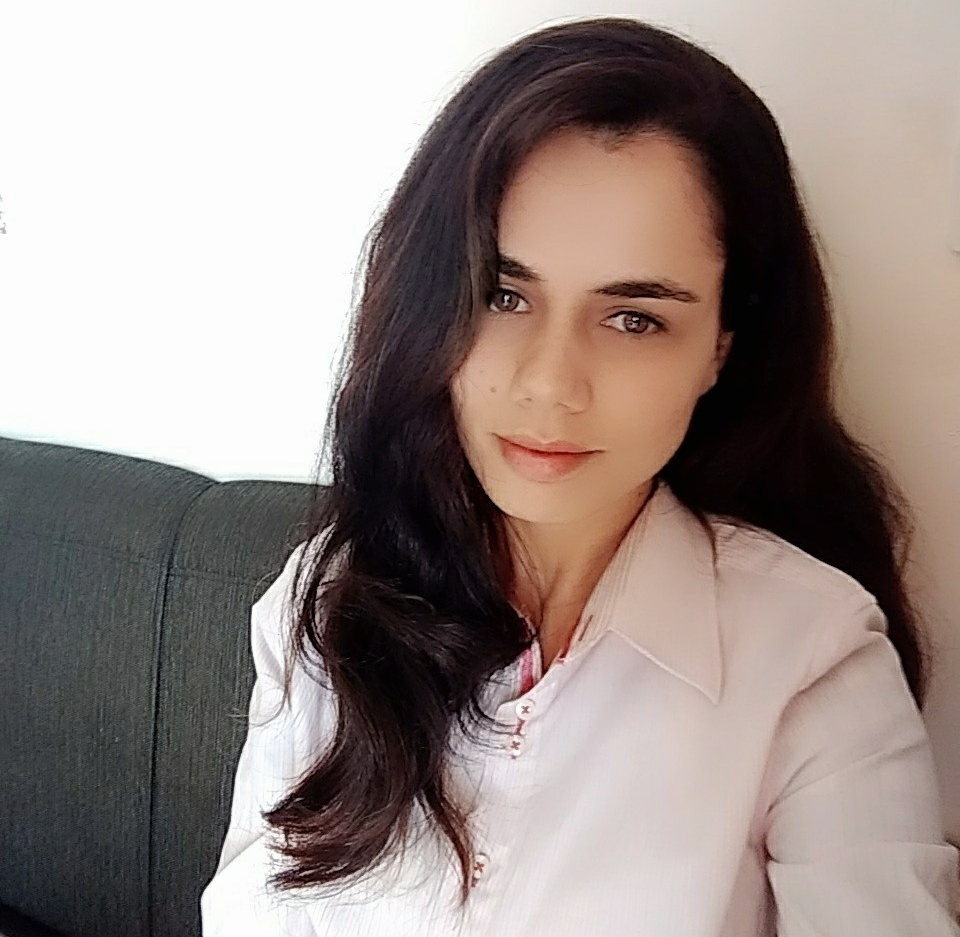
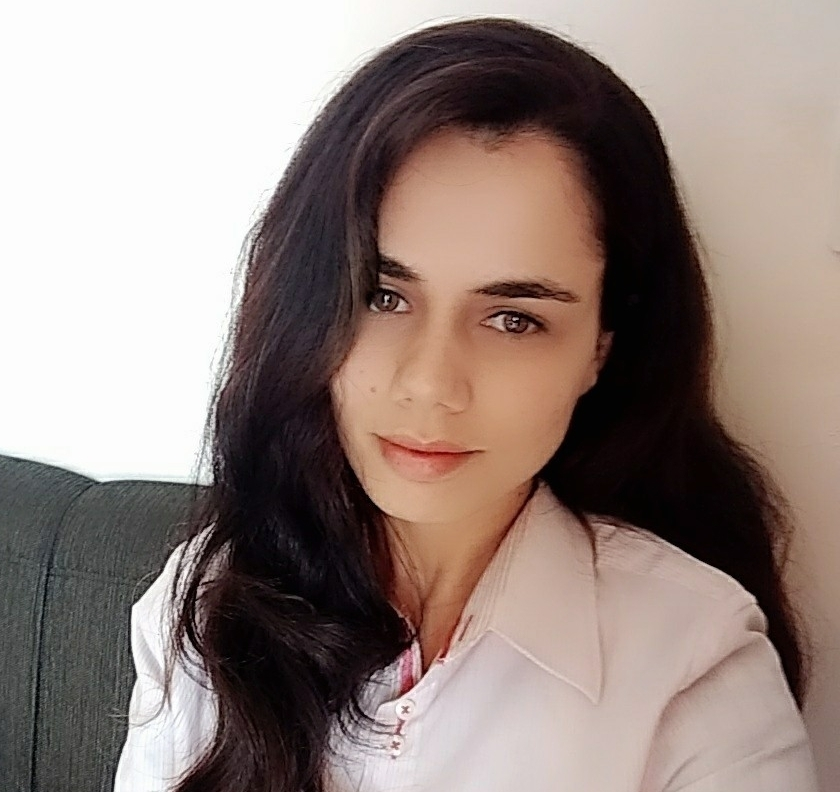
update

diff --git a/index.html b/index.html
@@ -3,7 +3,7 @@
 <head>
 	<meta charset="utf-8">
 	<title>Valéria Nicéria</title>
-	<link href="https://fonts.googleapis.com/css?family=Amaranth|Dancing+Script|Open+Sans|Pacifico" rel="stylesheet"> 
+	<link href="https://fonts.googleapis.com/css?family=Amaranth|Dancing+Script|Open+Sans|Pacifico|Press+Start+2P|Carter+One" rel="stylesheet"> 
 	<link rel="stylesheet" type="text/css" href="css/style.css">
 	<link rel="stylesheet" href="https://cdn.rawgit.com/konpa/devicon/df6431e323547add1b4cf45992913f15286456d3/devicon.min.css">
 	<link rel="stylesheet" href="https://use.fontawesome.com/releases/v5.3.1/css/all.css" integrity="sha384-mzrmE5qonljUremFsqc01SB46JvROS7bZs3IO2EmfFsd15uHvIt+Y8vEf7N7fWAU" crossorigin="anonymous">
@@ -23,15 +23,15 @@
 		<nav class="menu-nav mobile-menu">
 			<ul>
 				<li>
-					<a href="#sobre">Sobre</a>
+					<a href="#sobre">About</a>
 				</li>
 
 				<li>
-					<a href="#habilidades">Habilidades</a>
+					<a href="#habilidades">Skills</a>
 				</li>
 
 				<li>
-					<a href="./projetos.html">Projetos</a>
+					<a href="./projetos.html">Projects</a>
 				</li>
 
 			</ul>			
@@ -55,22 +55,19 @@
 	</section>
 	
 	<section class="container sobre" data-group="sobre" id="sobre">
-		<h1>Sobre</h1>
-		<img class="img-circle" style="width:250px;"  src="img/minha_foto.jpg" alt="Valéria Nicéria">
+		<h1>About</h1>
+		<img class="img-circle" style="width:180px;"  src="img/minha_foto.jpg" alt="Valéria Nicéria">
 		<div class="item-info">
-			<h3>Olá, meu nome é Valéria, sou mineira, moro em BH e tenho 26 anos.</h3>
-			<p>Sou uma pessoa que ama estudar e aprender coisas novas. Que descobriu no desenvolvimento de códigos sua paixão.</p>
-			<p>Fiz um Curso Técnico em Informática em 2011/2012, no colégio POLIMIG, porém ao fim do curso, por motivos pessoais, acabei seguindo outra profissão e com isso, minha paixão pela área de TI ficou adormecida.</p>
-			<p>Porém, no ano de 2017, redescobrir minha paixão. E decide que é isso que eu quero fazer para o resto da minha vida.</p>
-			<p>Atualmente, estou cursando Análise e Desenvolvimento de Sistemas.</p>
+			<h3>Hi, my name is Valéria.</h3>
+			<p>I'm a developer resides in BH, Brazil. I have a passion for create. I'm currently studying Analysis and systems development at Estácio and doing internship at ABG Consultoria Estatística.</p>
 		</div>
 	</section>
 
 	<section class="container habilidades" data-group="habilidades" id="habilidades">
-		<h1>Habilidades</h1>
+		<h1>Skills</h1>
 		<div class="grid-container">
 			<div class="grid-item">
-				<h3>web:</h3>
+				<h3 class="title-skill">web:</h3>
 				<span><i class="devicon-html5-plain colored"></i> HTML5</span>
 				<br>
 				<span><i class="devicon-css3-plain colored"></i> CSS3</span>
@@ -80,25 +77,25 @@
 				<span><i class="devicon-jquery-plain colored"></i> jQuery</span>
 			</div>
 			<div class="grid-item">
-				<h3>linguagens:</h3>
+				<h3 class="title-skill">languages <br /> programming:</h3>
 				<span><i class="devicon-php-plain colored"></i> PHP</span>
 				<br>
 				<span><i class="devicon-javascript-plain colored"></i> JavaScript</span>
 			</div>
 			<div class="grid-item">
-				<h3>banco de dados:</h3>
+				<h3 class="title-skill">database:</h3>
 				<span><i class="devicon-mysql-plain colored"></i> MySQL</span>
 			</div>
 			<div class="grid-item">
-				<h3>frontend <br /> frameworks:</h3>
+				<h3 class="title-skill">frontend <br /> frameworks:</h3>
 				<span><i class="devicon-angularjs-plain colored"></i> Angular</span>
 			</div>
 			<div class="grid-item">
-				<h3>backend <br /> frameworks:</h3>
+				<h3 class="title-skill">backend <br /> frameworks:</h3>
 				<span><i class="devicon-codeigniter-plain colored"></i> CodeIgniter</span>
 			</div>
 			<div class="grid-item">
-				<h3>devops:</h3>
+				<h3 class="title-skill">devops:</h3>
 				<span><i class="devicon-git-plain colored"></i> Git</span>
 				<br>
 				<span><i class="devicon-github-plain colored"></i> GitHub</span>

diff --git a/css/style.css b/css/style.css
@@ -34,11 +34,11 @@ body {
 .menu nav li a {
 	display: block;
 	color: white;
-	padding: 15px 20px;
+	padding: 25px 20px;
 	text-decoration: none;
-	font-family: 'Amaranth', sans-serif;
+	font-family: 'Press Start 2P', sans-serif;
 	text-transform: uppercase;
-	font-size: 1em;
+	font-size: 0.6em;
 	letter-spacing: 2px;
 	float: left;
 }
@@ -60,11 +60,11 @@ body {
 	display: block;
 	color: white;
 	width: 200px;
-	padding: 10px 10px 14px 20px;
+	padding: 13px 10px 14px 20px;
 	text-decoration: none;
-	font-family: 'Pacifico', cursive;
+	font-family: 'Carter One', cursive;
 	letter-spacing: 5px;
-	font-size: 2em;
+	font-size: 2.15em;
 	float: left;
 }
 
@@ -72,11 +72,11 @@ body {
 	display: block;
 	color: white;
 	width: 200px;
-	padding: 10px 10px 14px 20px;
+	padding: 14px 10px 14px 20px;
 	text-decoration: none;
-	font-family: 'Pacifico', cursive;
+	font-family: 'Carter One', cursive;
 	letter-spacing: 5px;
-	font-size: 2em;
+	font-size: 2.3em;
 	float: left;
 }
 
@@ -109,8 +109,18 @@ body {
 	text-shadow: 0 0 2px black;
 }
 
-.sobre p{
-	font-size: .95em;
+.title-skill {
+	font-family: 'Amaranth', sans-serif;
+}
+
+.sobre h3 {
+	font-family: 'Amaranth', sans-serif;
+	font-size: 1.8em;
+}
+
+.sobre p {
+	font-family: 'Amaranth', sans-serif;
+	font-size: 1.2em;
 }
 
 .item-info {
@@ -119,7 +129,7 @@ body {
 }
 
 .img-circle {
-	border-radius: 50%;
+	border-radius: 60%;
 	vertical-align: middle;
 	float:right;
 }
@@ -222,8 +232,8 @@ body {
 	.sobre img{
 		width: 50%;
 		padding: 20px;
-		margin-left: 30px;	
-		margin-right: 30px;			
+		margin-left: 0px;	
+		margin-right: 170px;			
 	}
 	.logo-rodape{
 		font-size: 2.5vw;

diff --git a/projetos.html b/projetos.html
@@ -3,7 +3,7 @@
 <head>
 	<meta charset="utf-8">
 	<title>Valéria Nicéria</title>
-	<link href="https://fonts.googleapis.com/css?family=Amaranth|Dancing+Script|Open+Sans|Pacifico" rel="stylesheet"> 
+	<link href="https://fonts.googleapis.com/css?family=Amaranth|Dancing+Script|Open+Sans|Pacifico|Press+Start+2P|Carter+One" rel="stylesheet">
 	<link rel="stylesheet" type="text/css" href="css/style.css">
 	<link rel="stylesheet" href="https://www.w3schools.com/w3css/4/w3.css">
 	<link rel="stylesheet" href="https://cdn.rawgit.com/konpa/devicon/df6431e323547add1b4cf45992913f15286456d3/devicon.min.css">
@@ -22,17 +22,17 @@
 		<!--Ícone-->
 		<span class="mobile-btn"></span>
 		<nav class="menu-nav mobile-menu">
-			<ul>
+			<ul style="font-size: 1em;">
 				<li>
-					<a href="http://valerianiceria.com.br/#sobre">Sobre</a>
+					<a href="http://valerianiceria.com.br/#sobre">About</a>
 				</li>
 
 				<li>
-					<a href="http://valerianiceria.com.br/#habilidades">Habilidades</a>
+					<a href="http://valerianiceria.com.br/#habilidades">Skills</a>
 				</li>
 
 				<li>
-					<a href="./projetos.html">Projetos</a>
+					<a href="./projetos.html">Projects</a>
 				</li>
 				
 			</ul>			
